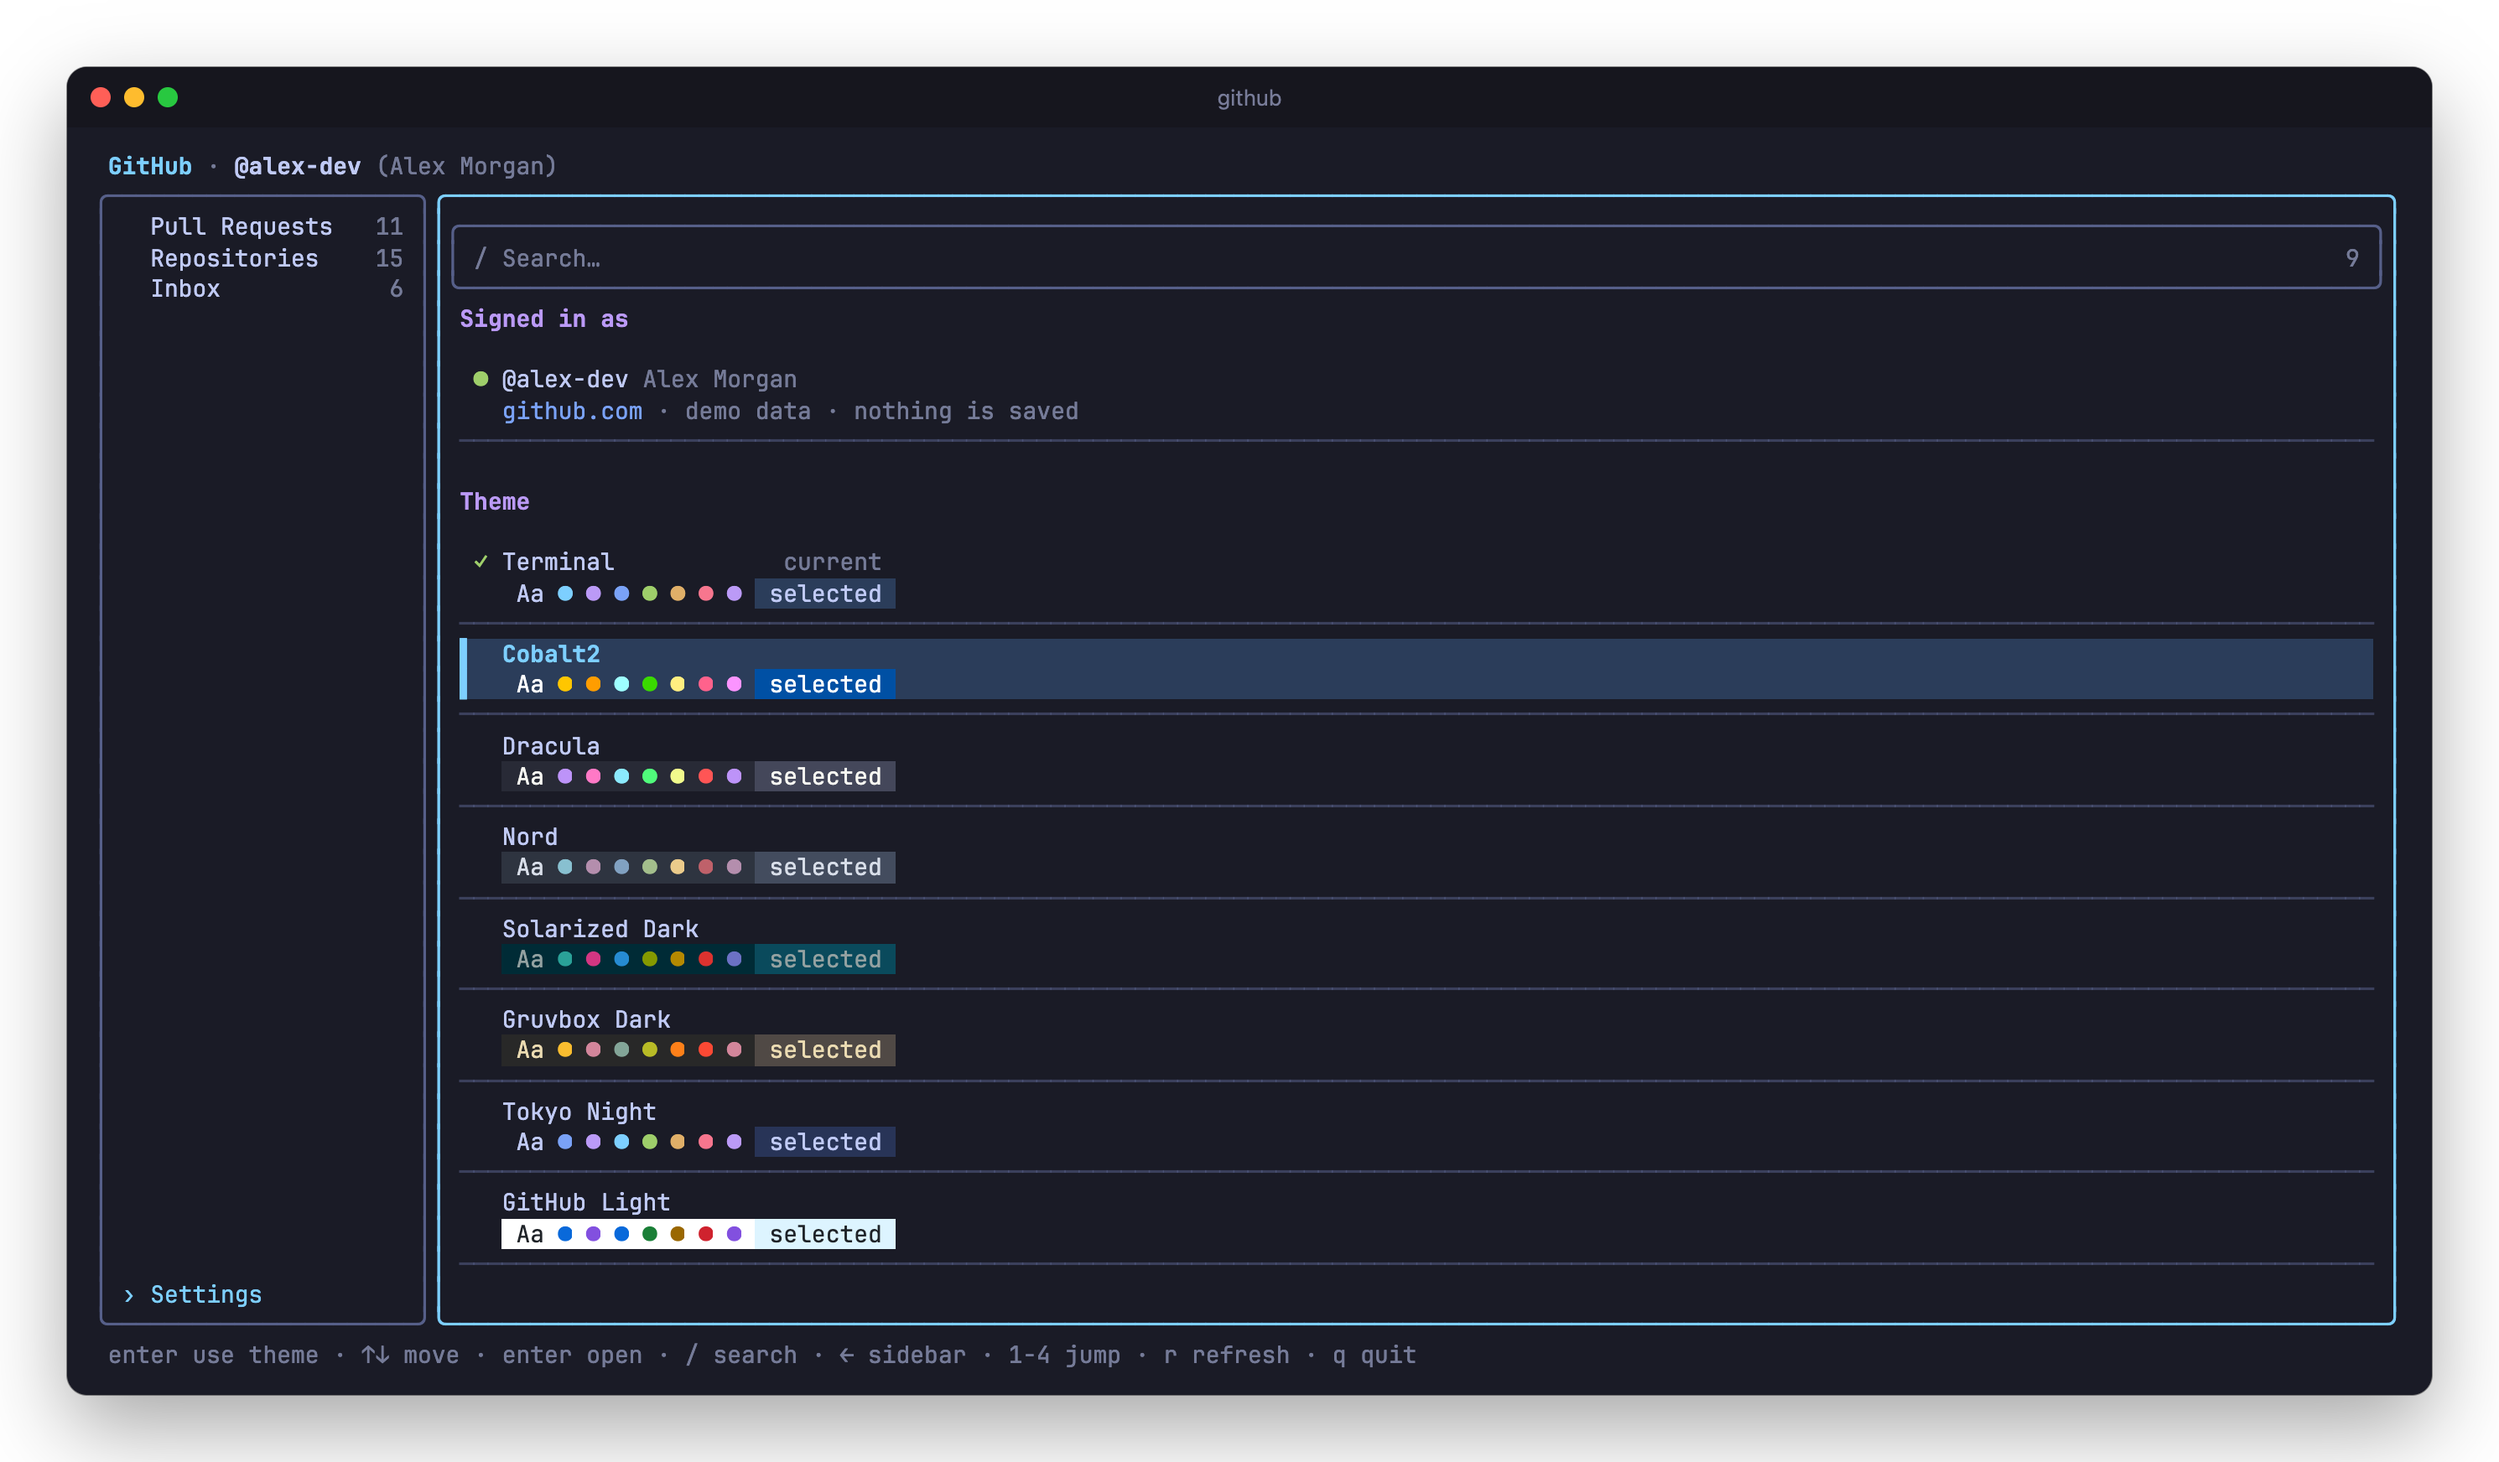
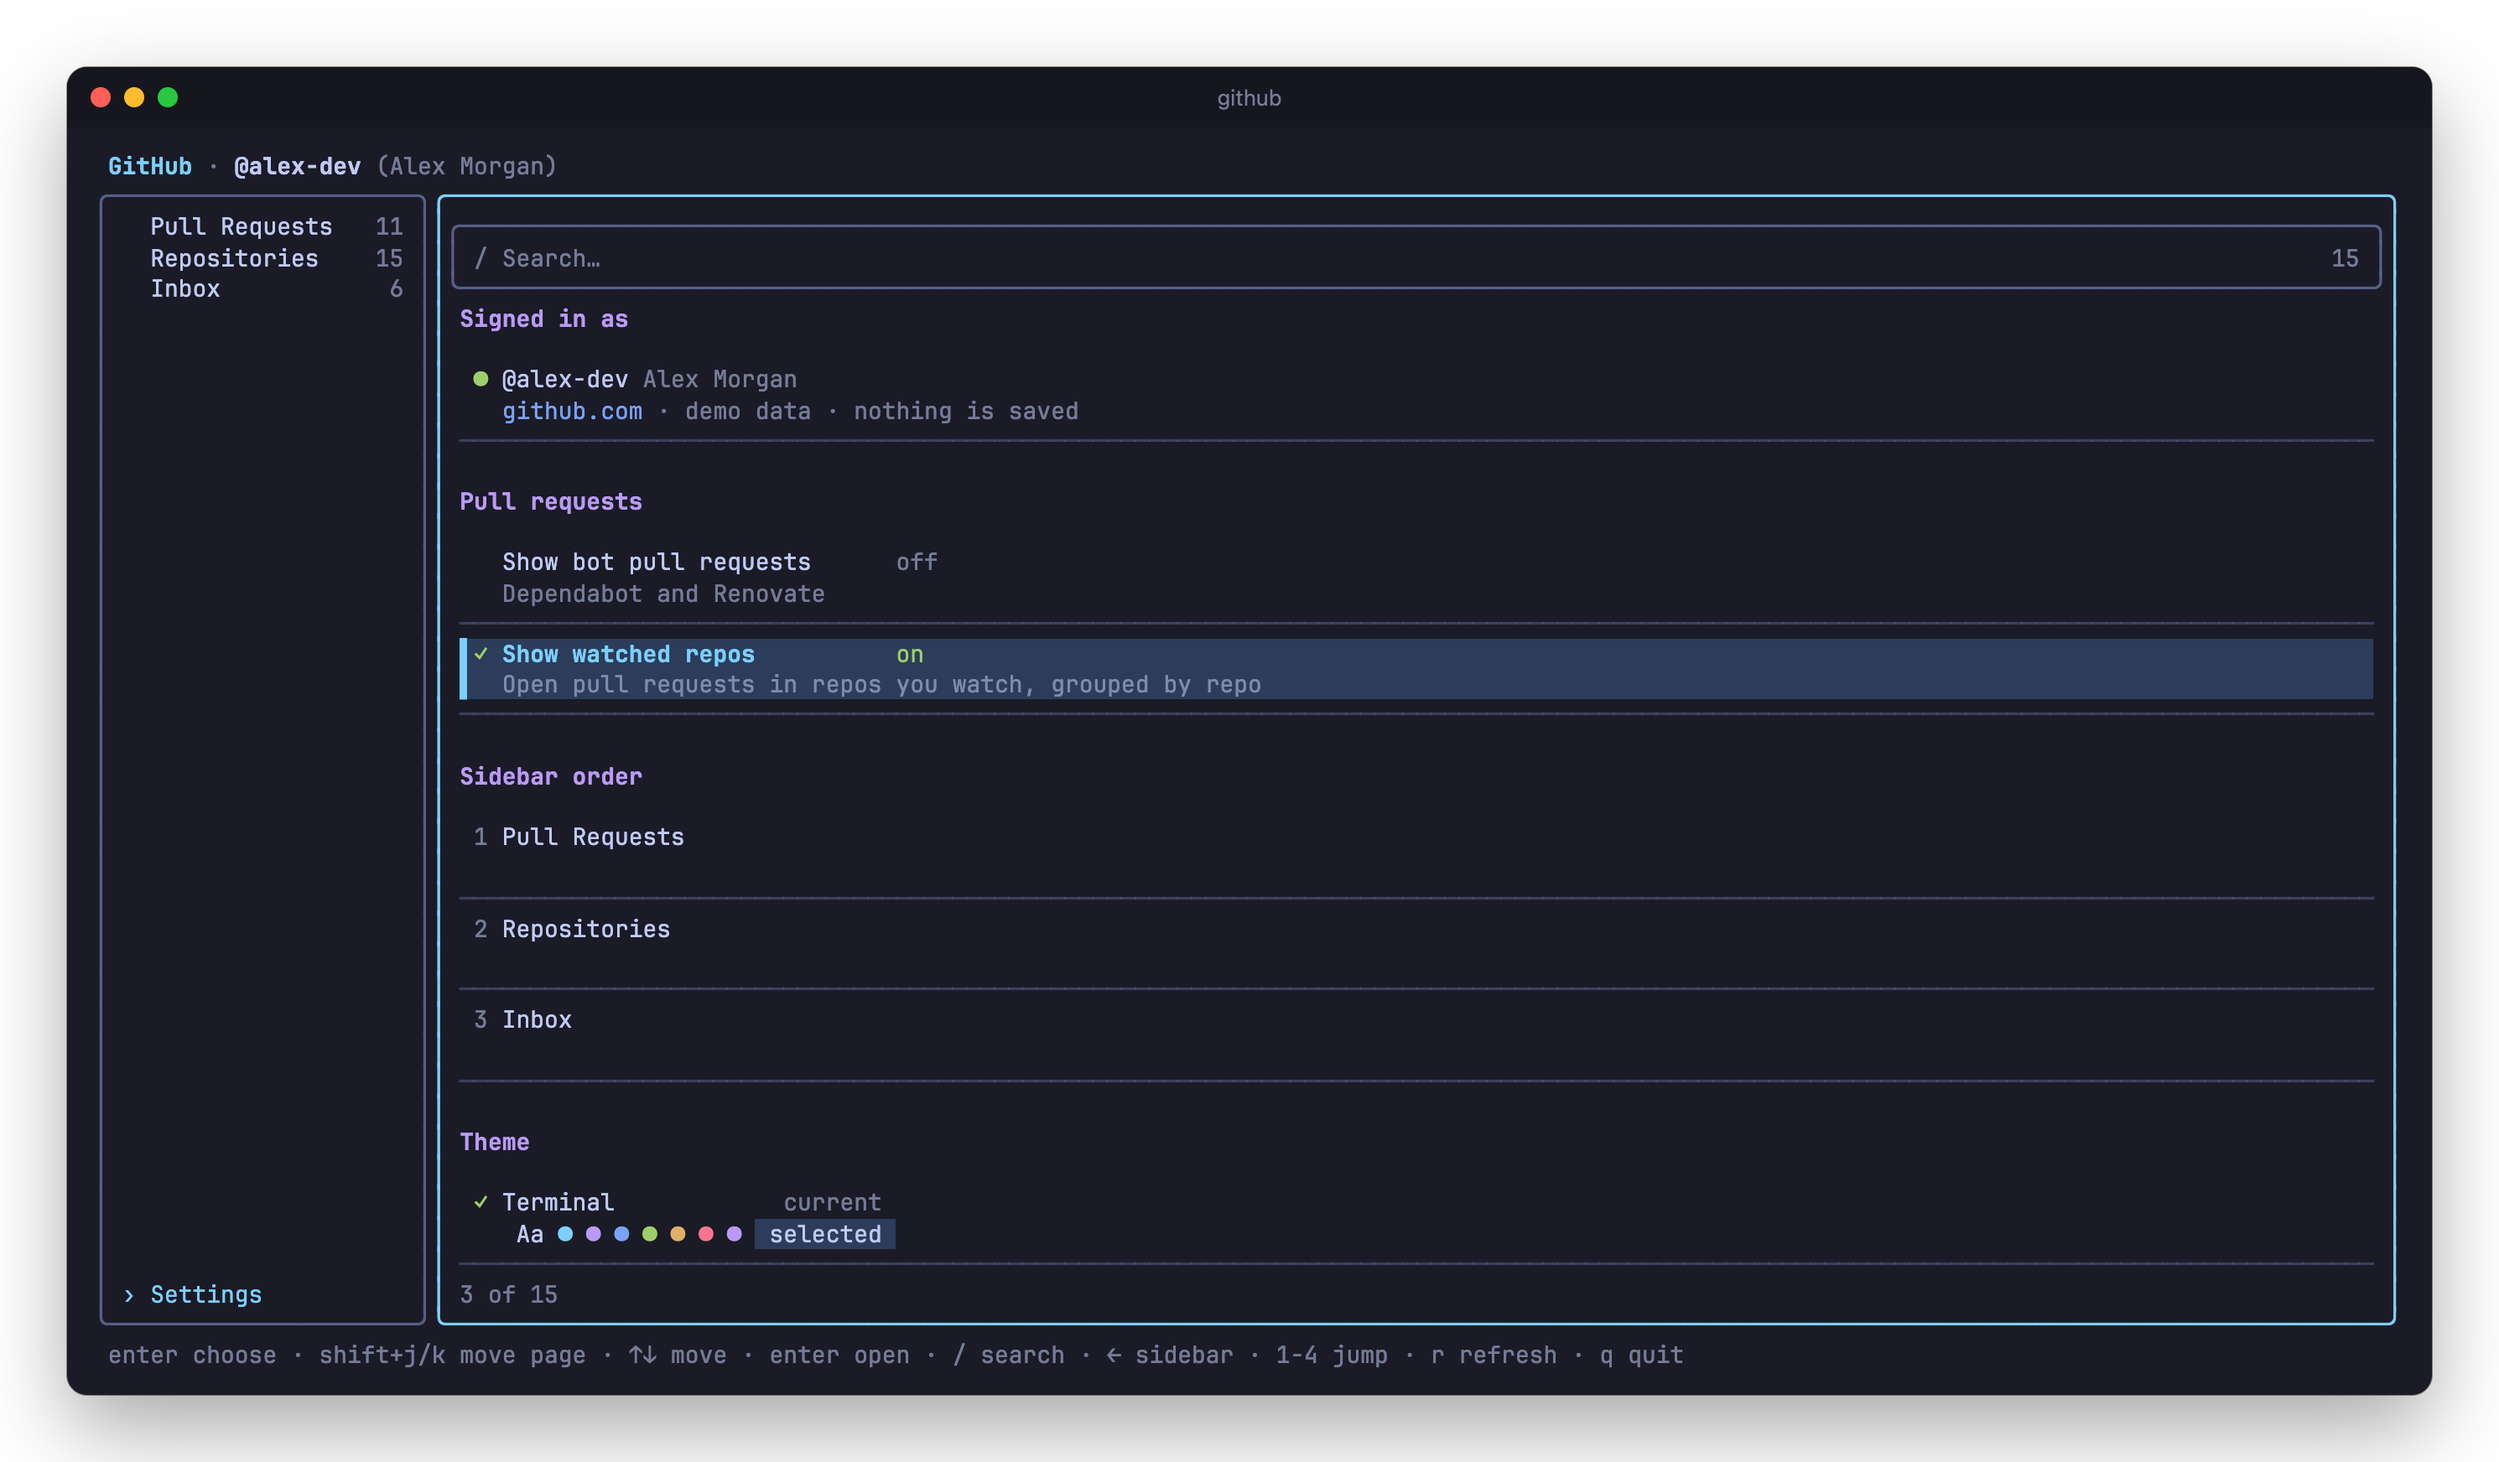
Add a Lumon theme
Based on github.com/OldJobobo/omarchy-lumon-theme. The palette is all
blues, so status colors are steps on its blue ramp and the icons carry
the meaning. Muted text is a little lighter than the source for
readability. Adds theme tests and refreshes the Settings screenshot.

diff --git a/test/theme.test.ts b/test/theme.test.ts
@@ -1,0 +1,28 @@
+import {describe, expect, it} from 'vitest';
+import {findTheme, THEMES} from '../src/theme.js';
+
+const COLOR = /^(#[0-9a-f]{6}|black|red|green|yellow|blue|magenta|cyan|white|gray)$/;
+
+describe('themes', () => {
+	it('have unique ids', () => {
+		expect(new Set(THEMES.map(t => t.id)).size).toBe(THEMES.length);
+	});
+
+	it.each(THEMES.map(t => [t.name, t] as const))('%s uses only valid colors', (_, theme) => {
+		for (const [key, value] of Object.entries(theme)) {
+			if (key === 'id' || key === 'name') continue;
+			expect(value, key).toMatch(COLOR);
+		}
+	});
+
+	it('includes Lumon, based on the omarchy-lumon-theme palette', () => {
+		const lumon = findTheme('lumon');
+		expect(lumon.name).toBe('Lumon');
+		expect(lumon.background).toBe('#1b2d40');
+		expect(lumon.text).toBe('#d6e2ee');
+	});
+
+	it('falls back to the Terminal theme for an unknown id', () => {
+		expect(findTheme('nope').id).toBe('default');
+	});
+});

diff --git a/src/theme.tsx b/src/theme.tsx
@@ -148,6 +148,26 @@ export const THEMES: Theme[] = [
 		done: '#bb9af7',
 		neutral: '#565f89',
 	},
+	// From github.com/OldJobobo/omarchy-lumon-theme. The palette is all blues, so the status
+	// colors are steps on its blue ramp and the icons (✓ ✗ ±) carry the meaning.
+	{
+		id: 'lumon',
+		name: 'Lumon',
+		background: '#1b2d40',
+		text: '#d6e2ee',
+		muted: '#829bac',
+		accent: '#6fb8e3',
+		border: '#4a6b80',
+		divider: '#273c50',
+		selection: '#2b475f',
+		group: '#b4e4f6',
+		link: '#8bc9eb',
+		success: '#86b7d8',
+		warning: '#9dcae5',
+		danger: '#f2fcff',
+		done: '#b1d8ee',
+		neutral: '#4a6b80',
+	},
 	{
 		id: 'github-light',
 		name: 'GitHub Light',

diff --git a/test/app.test.tsx b/test/app.test.tsx
@@ -95,6 +95,9 @@ describe('App (demo data)', () => {
 		expect(frame).toContain('Sidebar order');
 		expect(frame).toContain('Terminal');
 		expect(frame.split('\n').length).toBeLessThanOrEqual(ROWS);
+
+		await app.press('/', 'l', 'u', 'm', 'o', 'n');
+		expect(app.frame()).toContain('Lumon');
 	});
 
 	it('switches theme with enter', async () => {

diff --git a/README.md b/README.md
@@ -16,7 +16,7 @@ The app uses your `gh` login and never stores a token: it asks `gh auth token` e
 
 ![Repositories page with a search](docs/screenshots/repositories.png)
 
-**Settings** shows who you're signed in as and lets you pick a color theme: Terminal (your terminal's own colors), Cobalt2, Dracula, Nord, Solarized Dark, Gruvbox Dark, Tokyo Night, or GitHub Light. It also lets you show bot pull requests (Dependabot and Renovate, hidden by default), hide the watched-repo groups on the Pull requests page, and reorder the sidebar with `shift+j` and `shift+k`. The top sidebar page opens first. Your choices are saved to `~/.config/github-tui/settings.json` (or `$XDG_CONFIG_HOME/github-tui`). Themes look best in a terminal with 24-bit color.
+**Settings** shows who you're signed in as and lets you pick a color theme: Terminal (your terminal's own colors), Cobalt2, Dracula, Nord, Solarized Dark, Gruvbox Dark, Tokyo Night, Lumon, or GitHub Light. It also lets you show bot pull requests (Dependabot and Renovate, hidden by default), hide the watched-repo groups on the Pull requests page, and reorder the sidebar with `shift+j` and `shift+k`. The top sidebar page opens first. Your choices are saved to `~/.config/github-tui/settings.json` (or `$XDG_CONFIG_HOME/github-tui`). Themes look best in a terminal with 24-bit color.
 
 ![Settings page with the theme list](docs/screenshots/settings.png)
 
